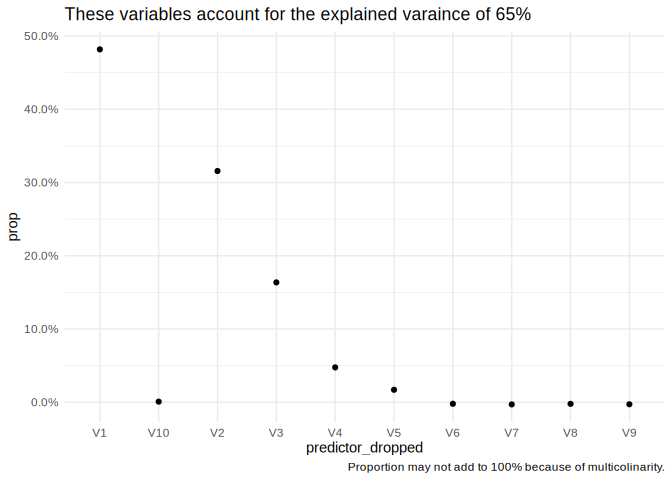
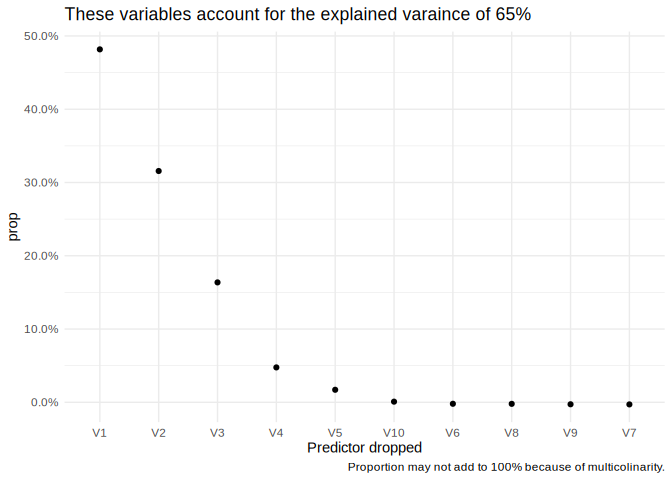
reorder plots

diff --git a/README.md b/README.md
@@ -98,13 +98,14 @@ results <- map_dfr(models, "results", .id = "predictor_dropped") %>%
 This plot shows the raw \(R^2\) for each model.
 
 ``` r
+# reorder for sorting from high to low
 ggplot(results, aes(reorder(predictor_dropped, Rsquared), Rsquared, color = reference)) +
   geom_point() +
   geom_errorbar(aes(ymin = Rsquared_lower, ymax = Rsquared_upper), width = .1) +
   theme_minimal() +
   theme(legend.position = "none") +
   scale_color_manual(values = c("TRUE" = "black", "FALSE" = "grey")) +
-  xlab("predictor_dropped") +
+  xlab("Predictor dropped") +
   NULL
 ```
 
@@ -119,12 +120,13 @@ baseline <- filter(results, predictor_dropped == "none") %>%
   pull(Rsquared)
 results %>% filter(predictor_dropped != "none") %>% 
   mutate(prop = (baseline - Rsquared)/baseline) %>% 
-  ggplot(aes(predictor_dropped, prop)) +
+  ggplot(aes(reorder(predictor_dropped, -prop), prop)) +
   geom_point() +
   theme_minimal() +
   scale_y_continuous(labels = scales::percent) +
   labs(title = paste0("These variables account for the explained varaince of ", round(baseline*100), "%"),
-       caption = "Proportion may not add to 100% because of multicolinarity.") +
+       caption = "Proportion may not add to 100% because of multicolinarity.",
+       x = "Predictor dropped") +
   NULL
 ```
 
